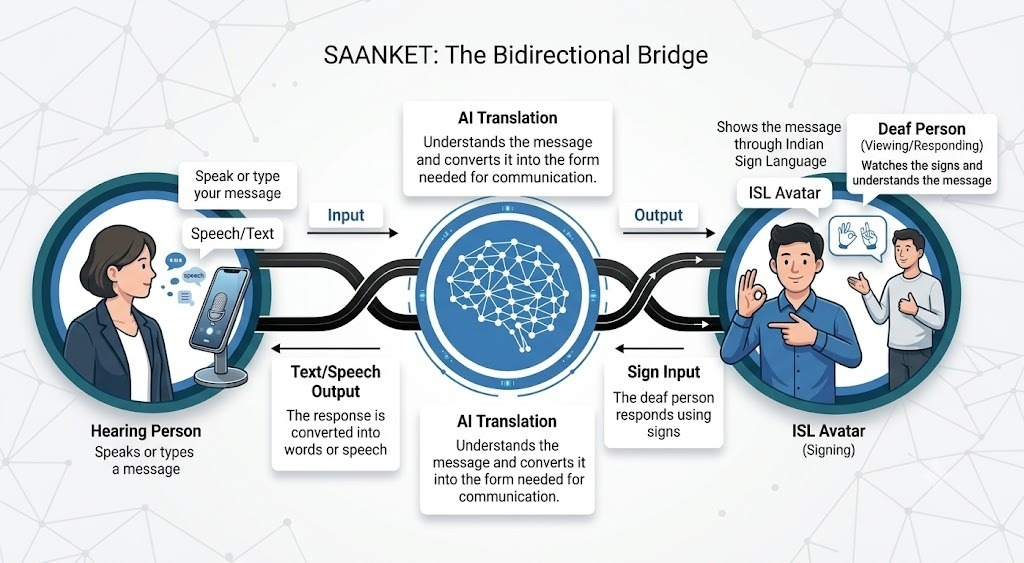
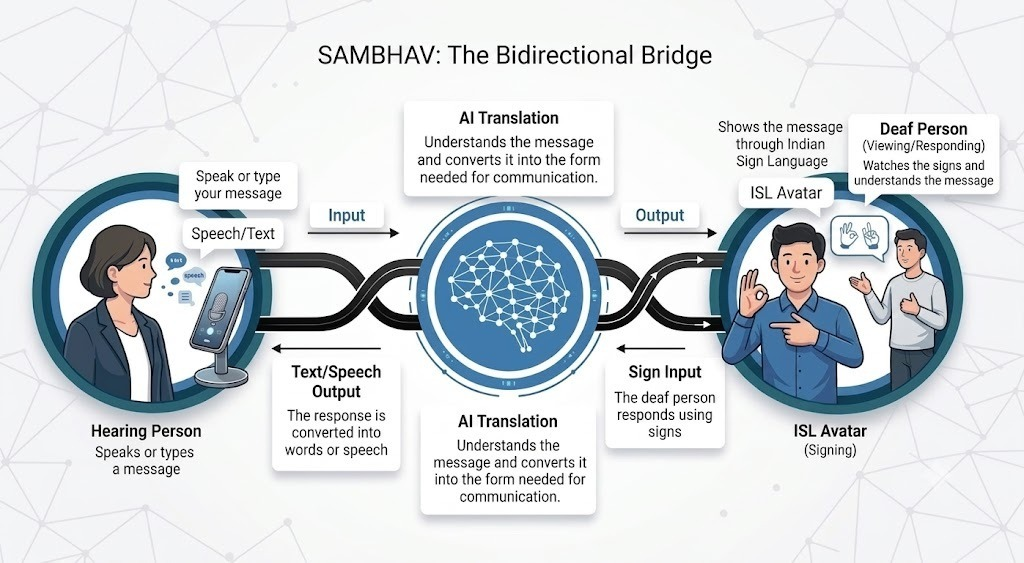
feat(ui): update how it works architecture diagram to SAMBHAV Bidirectional Bridge

diff --git a/frontend/src/pages/LandingPage.tsx b/frontend/src/pages/LandingPage.tsx
@@ -401,14 +401,14 @@ export const LandingPage: React.FC = () => {
               <h2 className="text-3xl sm:text-4xl md:text-5xl font-extrabold text-[#0c1322] font-headline">
                 How It Works <span className="text-[#ea580c]">?</span>
               </h2>
-              <p className="text-sm sm:text-base text-[#475569] mt-2 max-w-xl mx-auto">
-                SAANKET Bidirectional Bridge: Powering seamless 2-way sign-to-speech and speech-to-sign conversions.
+              <p className="text-sm sm:text-base text-[#475569] mt-2 max-w-xl mx-auto font-medium">
+                SAMBHAV: The Bidirectional Bridge — Powering seamless 2-way sign-to-speech and speech-to-sign conversions.
               </p>
             </div>
             <div className="p-2 rounded-3xl bg-gradient-to-r from-amber-400 via-indigo-500 to-emerald-400 shadow-2xl max-w-4xl mx-auto">
               <div className="bg-white rounded-[22px] p-3 sm:p-5">
                 <img
-                  alt="SAANKET: The Bidirectional Bridge - How it Works"
+                  alt="SAMBHAV: The Bidirectional Bridge - How it Works"
                   className="w-full h-auto object-cover rounded-xl sm:rounded-2xl"
                   src="/assets/how_it_works_diagram.jpg"
                 />
